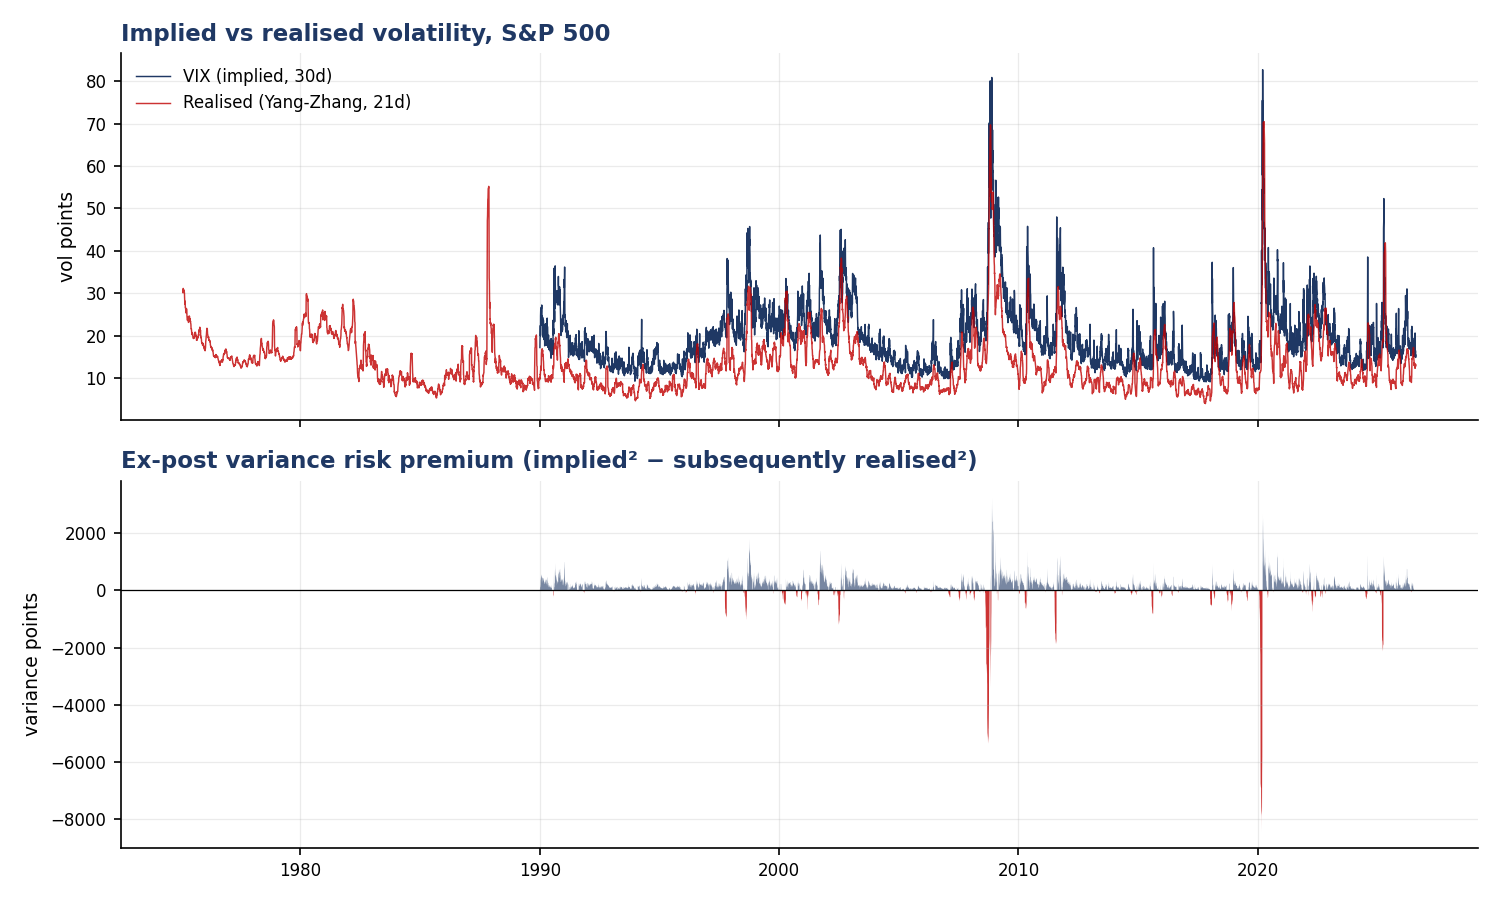
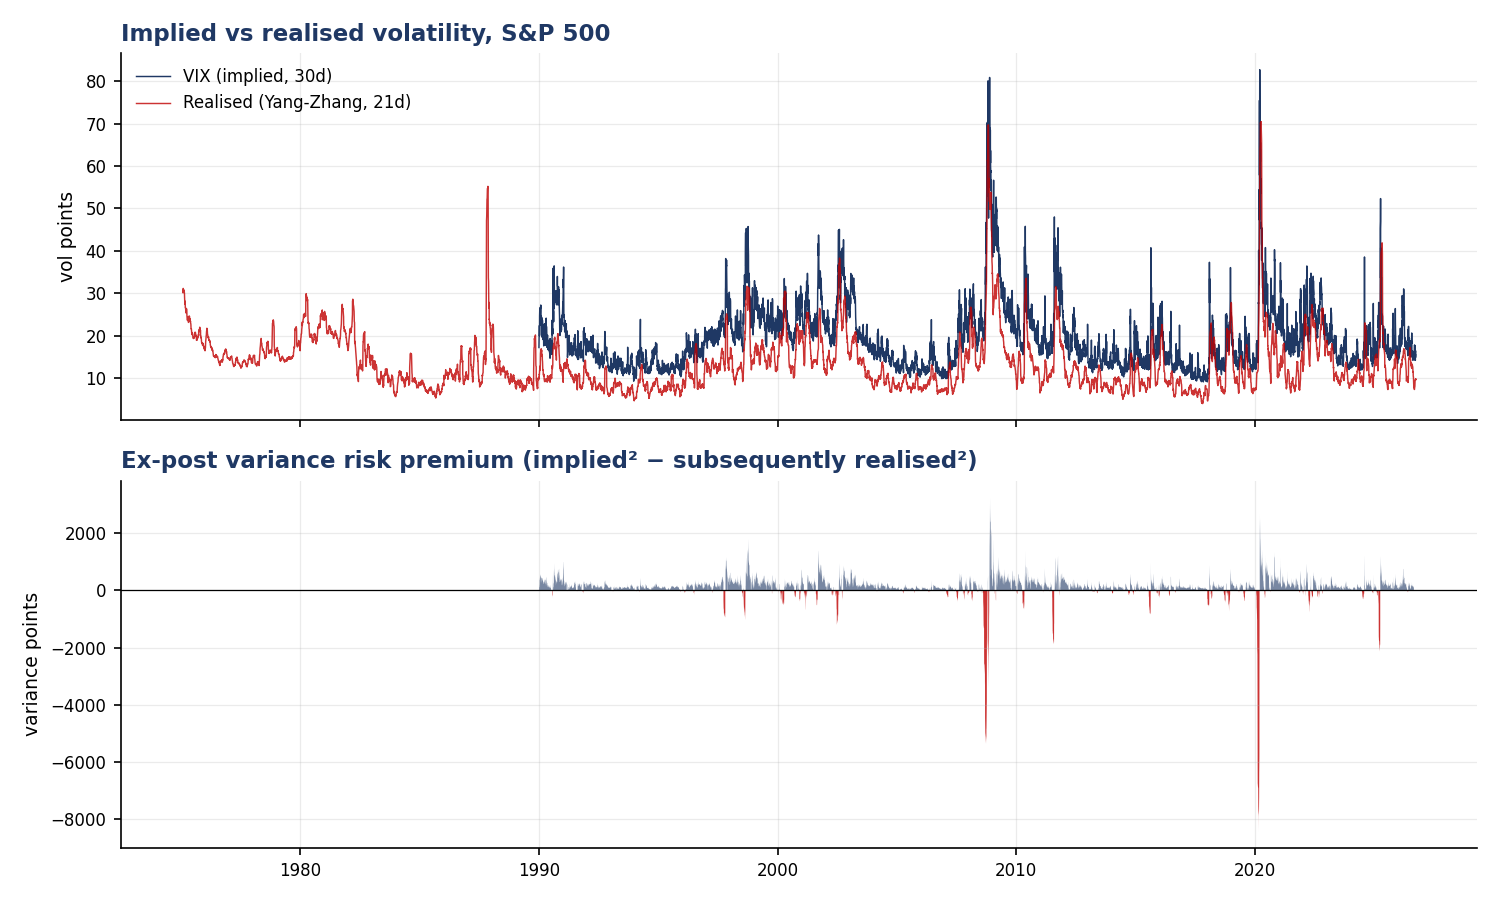
README: lead with the index-versus-futures result; regenerate figures
Results through September 2026 with inference for every strategy. States
plainly that the previous version reported a non-tradable index result as a
relative-value finding.

diff --git a/README.md b/README.md
@@ -1,80 +1,92 @@
 # Relative-value volatility research
 
-A point-in-time data pipeline, two volatility signals, and a walk-forward backtest, built to
-answer one question:
+A point-in-time data pipeline, volatility signals, a walk-forward backtest and
+the statistics to judge them, built to answer two questions honestly:
 
-> **Is the equity variance risk premium a strategy, or just a way of getting paid to hold a
-> short tail?**
+> **1. Is the equity variance risk premium a strategy, or a way of getting paid to hold a short tail?**
+>
+> **2. Does a signal on the shape of the VIX curve still work once you trade it in instruments that exist?**
 
-The short answer, over 36 years of S&P 500 data, is mostly the second. The more interesting
-result is what happens when the same premium is traded in *relative* rather than outright
-form — see [Findings](#findings).
+The short answers, on S&P 500 data from 1990 and VIX futures from 2013, both
+through September 2026:
 
-![Cumulative net PnL](reports/figures/02_cumulative_pnl.png)
+1. The premium is real and statistically strong (Newey–West *t* = 4.4 over 441
+   months), but it comes with a skew of −10 and a worst month that erases five
+   years of carry.
+2. **No.** A term-structure signal with a Sharpe of 0.95 (*t* = 4.3) and
+   *positive* skew on the VIX indices turns into **−0.77 (*t* = −2.6) with
+   skew −7.0** when the same trades are put on in VIX futures. Before costs it
+   is 0.21, and not distinguishable from zero.
+
+![Same signal, two instruments](reports/figures/03_index_vs_futures.png)
 
 ---
 
 ## Findings
 
-All PnL is in **volatility points** per unit of vega notional, net of costs. Data runs to
-10 August 2026.
+Monthly, non-overlapping net PnL in **volatility points** per unit of vega
+notional. *t* is Newey–West (Bartlett kernel, automatic bandwidth); the
+interval is a 95% circular block bootstrap (6-month blocks) for the annualised
+Sharpe. Full table: [`reports/inference.csv`](reports/inference.csv).
 
-| | Always-on short variance | VRP-conditioned (in-sample) | VRP walk-forward (OOS) | Calendar relative value |
-|---|---|---|---|---|
-| Period | 1990–2026 | 1990–2026 | 1994–2026 | 2009–2026 |
-| Annualised return | 25.50 | 8.33 | 13.72 | 3.65 |
-| Annualised vol | 7.72 | 4.16 | 5.39 | 2.08 |
-| **Sharpe (daily)** | **3.30** | **2.00** | **2.55** | **1.75** |
-| **Sharpe (monthly)** | **0.84** | **0.76** | **0.80** | **1.30** |
-| Max drawdown | −161.50 | −67.21 | −84.32 | −6.25 |
-| Skew | −11.77 | −15.83 | −10.15 | **+5.74** |
-| Excess kurtosis | 212.6 | 435.1 | 191.1 | 138.7 |
-| Worst month | −129.57 | −37.30 | −53.04 | −1.02 |
-| Time in market | 100% | 46% | 68% | 35% |
-| Annualised turnover | 0.00 | 35.9 | 49.2 | 16.0 |
+| Strategy | Period | Sharpe | NW *t* | 95% CI | Skew | Worst month |
+|---|---|---|---|---|---|---|
+| Always-on short variance | 1990–2026 | 0.85 | 4.41 | [0.28, 2.50] | −10.1 | −129.6 |
+| VRP-conditioned (fixed params) | 1990–2026 | 0.76 | 3.80 | [0.23, 1.81] | −6.5 | −37.3 |
+| VRP walk-forward (out of sample) | 1994–2026 | 0.80 | 3.89 | [0.24, 2.02] | −6.6 | −53.0 |
+| Curve signal, **marked on VIX indices** † | 2013–2026 | 0.95 | 4.26 | [0.58, 1.43] | +2.5 | −6.2 |
+| Same trades, **VIX futures**, before costs | 2013–2026 | 0.21 | 0.72 | [−0.31, 1.26] | −6.4 | −5.2 |
+| Same trades, **VIX futures**, after costs | 2013–2026 | **−0.77** | −2.64 | [−1.39, −0.50] | −7.0 | −5.6 |
+| Futures, signal from the futures curve | 2013–2026 | −0.58 | −2.00 | [−1.02, −0.06] | −3.1 | −3.2 |
+| Futures, M3 − M1 back leg (tenor-matched) | 2013–2026 | −0.30 | −1.06 | [−0.62, 0.33] | −9.6 | −13.9 |
 
-**1. The daily Sharpe is an artefact.** Always-on short variance shows 3.30 daily and 0.84
-monthly. The gap is not a rounding difference — it is the overlapping 21-day holding periods
-smoothing the daily series. The monthly figure is computed on non-overlapping buckets and is
-the only one worth quoting. Any short-variance backtest advertising a daily Sharpe above 3
-is reporting this artefact.
+† Not tradable. Kept as the counterfactual.
 
-**2. The premium is real; the payoff distribution is the problem.** The strategy wins on 83%
-of days and still carries skew of −11.8, kurtosis of 213, and a worst month of −129.6 vol
-points against an annual return of 25.5. Roughly five years of carry disappears in a single
-month. That is a short tail with a coupon, not an edge.
+**1. The daily Sharpe of short variance is an artefact.** Always-on short
+variance shows 3.32 on daily data and 0.85 on monthly. The overlapping 21-day
+holding periods autocorrelate the daily series; the monthly buckets do not
+overlap, so that is the figure to quote.
 
-**3. Conditioning on the premium helps risk, not return.** Trading only when the VRP proxy is
-rich relative to its own trailing distribution cuts max drawdown by ~48% (−161.5 → −84.3
-out-of-sample) and worst month by 59%, at the cost of roughly half the return. Monthly Sharpe
-barely moves: 0.84 → 0.80. **The conditioning buys survivability, not alpha** — a fair result,
-and not the one I expected when I started.
+**2. The premium is real, the payoff is a short tail.** The strategy wins on
+83% of days and returns about 25 vol points a year, and its worst month
+(March 2020) loses 130 — five years of carry.
 
-**4. Honest parameter selection costs almost nothing here.** The walk-forward version chooses
-its lookback and entry threshold on an expanding window and trades the following year blind.
-It gives up little against the in-sample version, which mostly says the strategy is not very
-parameter-sensitive — the premium is a broad phenomenon, not a tuned one.
+**3. Conditioning buys survivability, not return.** Trading only when the
+premium is rich relative to its own history roughly halves the drawdown and
+cuts the worst month by 60–70%. Monthly Sharpe does not improve (0.85 → 0.80).
+Parameters chosen on an expanding window and applied blind give up almost
+nothing, but the **deflated Sharpe** (Bailey & López de Prado, 2014) across the
+12 configurations tried is 0.90 — below the conventional 0.95 bar. Selecting
+the best of 12 would produce an annualised Sharpe of 0.39 by luck alone.
 
-**5. The relative-value version has the opposite tail.** The calendar trade — front variance
-against back variance, equal and opposite vega, expressing curve *shape* rather than level —
-earns a monthly Sharpe of 1.30 with **positive** skew of +5.7 and a worst month of −1.0.
-It is in the market only 35% of the time. Trading the same underlying premium in spread form
-inverts the sign of the tail. This is the whole argument for relative value in one number, and
-it is the result I would want to attack first if I had more data.
+**4. Index versus tradable is the whole result.** The VIX index mean-reverts
+predictably after spikes, and the calendar signal captures that: on the
+indices it earns a Sharpe of 0.95 with positive skew. But no one can buy the
+index. VIX futures already price the expected reversion — a future on an
+elevated VIX trades well below spot — so the predictable part of the index move
+is not available as a return. In futures the same trades earn nothing before
+costs and lose after them, and the tail flips from +2.5 to −7.0. Building the
+signal from the futures curve itself, or matching the back leg's tenor to
+VIX3M, does not rescue it.
 
-![Implied vs realised](reports/figures/01_implied_vs_realised.png)
+**5. What the first version got wrong.** The previous version of this
+repository reported the index-level result as a tradable relative-value
+finding. It was not. The futures data, the roll logic and the inference layer
+were added to test that claim, and the claim did not survive.
+
+![Cumulative PnL, variance carry](reports/figures/02_cumulative_pnl.png)
 
 ---
 
-## Design: three things that decide whether the numbers mean anything
+## Design: what decides whether the numbers mean anything
 
 ### Point-in-time, enforced rather than intended
 
-Every fact table carries `ingested_at`. Loaders upsert on natural primary keys, so re-running
-one applies corrections without duplicating rows, and derived tables are always rebuildable
-from raw. Constraints live in the schema — `option_quote` rejects an expiry before its
-snapshot date, `underlying_daily` rejects a bar where the high is below the close — so bad
-data fails at the boundary rather than three transformations downstream.
+Every fact table carries `ingested_at`. Loaders upsert on natural keys, so a
+re-run applies corrections without duplicating rows, and derived tables are
+rebuildable from raw. Constraints live in the schema — an option expiry before
+its snapshot, a futures settlement after its expiry or a bar whose high is
+below its close all fail at the boundary.
 
 ### Two things are called "VRP" and only one is tradable
 
@@ -83,18 +95,37 @@ ex-post VRP    implied² at t  −  variance realised over (t, t+H]     ← the 
 VRP proxy      implied  at t  −  volatility realised over (t−H, t]   ← the signal
 ```
 
-The first is not knowable at `t`. `signals/` never imports the forward estimator; only
-`backtest/` does, and only to settle a position that was already opened.
+`signals/` never imports the forward estimator. Only `backtest/` does, to
+settle a position that was already opened.
 
 ### The no-lookahead test
 
-`tests/test_no_lookahead.py` multiplies all data after an arbitrary cut point by a random
-factor of 3–6× and asserts that every signal value *before* that point is bit-identical.
+`tests/test_no_lookahead.py` multiplies all data after a cut point by a random
+factor of 3–6× and asserts that every earlier signal value is unchanged. It
+failed on first run: the position sizer normalised by the full-sample median of
+implied volatility, so a 1994 position knew the average volatility of the next
+thirty years.
 
-This is not decorative. It failed on first run and caught a genuine leak: the position sizer
-normalised by `implied.median()` over the full sample, so the 1994 position knew the average
-volatility of the following thirty years. It is now an expanding median. A code review would
-probably not have caught that line; the test caught it immediately.
+### Execution timing and rolls
+
+A signal observed at the close of day *t* is executed at the settlement of day
+*t+1* (trade-at-settlement) and earns from there. The futures book holds the
+first contract with more than five business days to expiry and the next one
+out; PnL on a roll day is computed on the contracts held the day before, so a
+roll never shows up as a price jump. Costs: 0.05 vol points per leg per trade,
+four contract-units per roll. `tests/test_futures.py` checks the expiry rule
+against every published contract and that a uniform price drift produces zero
+spread PnL through rolls.
+
+### The option-chain recorder
+
+A GitHub Action records the full SPY chain (≈11,000 quotes) after every US
+close into Postgres. It is point-in-time by construction, with one exception
+found in September: on US holidays the data source still serves the previous
+session, which was being stored under the holiday's date. The recorder now
+stamps each chain with the date of its last regular-session print and skips the
+day when that is not today; `volrv audit-snapshots` flags any repeated day
+already in the table.
 
 ![PnL distribution](reports/figures/04_pnl_distribution.png)
 
@@ -102,25 +133,16 @@ probably not have caught that line; the test caught it immediately.
 
 ## What this does **not** model
 
-Stated plainly, because the numbers above are not tradable Sharpes:
-
-- **PnL is modelled at index level.** A one-month variance position is priced off the VIX and
-  settled against realised variance; the calendar trade is marked off the constant-maturity
-  curve. Neither VIX nor VIX3M is directly tradable. A real implementation needs the option
-  chain or the futures strip.
-- **No strike-level bid-ask.** Costs are a flat 0.50 vol points round-trip on the variance leg
-  and 0.20 on the calendar spread. Deliberately conservative, but a single number cannot
-  capture the fact that liquidity vanishes exactly when the strategy needs to de-risk.
-- **No delta hedging path.** A variance swap is replicated by a strip of options plus a
-  continuously rebalanced delta. The discrete-hedging error is real and is not here.
-- **No financing, margin, or capacity.** The February 2018 loss is modelled as a mark. In
+- **Variance PnL is priced off VIX², not traded.** VIX² is close to the fair
+  30-day variance swap rate but not equal to it, and the backtest has no
+  strike-level bid-ask or discrete-hedging error. The futures results do not
+  share this limitation.
+- **Futures begin in 2013**, the start of CBOE's public per-contract files. The
+  tradable test never sees 2008.
+- **No margin, financing or capacity.** A February 2018 loss is a mark here; in
   practice it was a margin call.
-- **VIX3M starts in 2009**, so the calendar result never sees 2008. Its positive skew is
-  measured over a period containing 2018 and 2020 but not the crisis that would test it hardest.
-
-The natural next step is [`snapshot.py`](src/volrv/ingest/snapshot.py) — recording real option
-chains daily so the surface can be fitted (SVI, with Durrleman and calendar constraints) and
-the PnL computed on quotes rather than an index proxy.
+- **Costs are a single number per leg.** Liquidity disappears exactly when
+  these strategies need to trade.
 
 ---
 
@@ -130,66 +152,48 @@ the PnL computed on quotes rather than an index proxy.
 git clone https://github.com/0janne/vol-rv-research && cd vol-rv-research
 pip install -e ".[dev]"
 
-docker compose up -d                    # Postgres 16 on :5433
-cp .env.example .env
-
+docker compose up -d                    # Postgres 16 on :5433 (optional; SQLite by default)
 volrv init-db                           # apply sql/ migrations (idempotent)
-volrv ingest --source all               # ~14k days of SPX OHLC + the VIX complex
-volrv build-features                    # realized vol estimators, VRP, term structure
-volrv report                            # backtests + figures into reports/
+volrv ingest --source all               # SPX OHLC, VIX complex, ~170 VIX futures contracts
+volrv build-features                    # realised vol estimators, VRP, term structure
+volrv report                            # backtests, inference table, figures
 
 pytest -q && ruff check src tests
 ```
-
-Postgres is the intended store; the test suite runs against SQLite so CI needs no server.
-Set `DATABASE_URL` to switch.
-
-To start accumulating real chains, schedule the recorder after the US close:
-
-```bash
-volrv snapshot --underlying SPY         # appends one point-in-time chain per day
-```
-
----
 
 ## Data
 
 | Source | Series | Coverage |
 |---|---|---|
 | CBOE (free daily CSVs) | VIX, VIX9D, VIX3M, VIX6M, VVIX, SKEW, SPX | VIX from 1990 |
+| CBOE Futures Exchange | VIX futures settlements, every monthly contract | 2013 onward |
 | Yahoo Finance | SPX daily OHLC (range-based estimators need it) | from 1970 |
-| `volrv snapshot` | SPY option chains | forward from first run |
+| `volrv snapshot` | SPY option chains, recorded daily | from August 2026 |
 
-No vendor data is redistributed in this repository — only the loaders.
+No vendor data is redistributed here — only the loaders.
 
 ## Layout
 
 ```
-sql/001_schema.sql          tables, keys, constraints
+sql/                        001 schema · 002 VIX futures
 src/volrv/
-  ingest/                   cboe.py · yahoo.py · snapshot.py
-  vol/realized.py           close-to-close, Parkinson, Garman-Klass,
-                            Rogers-Satchell, Yang-Zhang
-  vol/term.py               constant-maturity curve (interpolated in total variance)
-  signals/                  vrp.py · calendar.py — point-in-time only
-  backtest/engine.py        tranche ladder, vega-neutral spread, walk-forward
-  backtest/metrics.py       daily and non-overlapping monthly statistics
-tests/                      37 tests, incl. the no-lookahead guard
+  ingest/                   cboe · cboe_futures · yahoo · snapshot (holiday-safe)
+  vol/                      five realised-vol estimators · constant-maturity curve
+  signals/                  vrp · calendar — point-in-time only
+  backtest/engine.py        variance tranche ladder · spread engine · walk-forward
+  backtest/futures.py       contract selection, rolls, tradable spread PnL
+  backtest/inference.py     Newey–West, block bootstrap, deflated Sharpe
+tests/                      54 tests, incl. the no-lookahead guard
 ```
 
-## Notes on method
+## References
 
-Constant-maturity vols are interpolated in **total variance** against calendar days, not in
-volatility — interpolating vol directly is not arbitrage-consistent across tenors.
-
-The variance carry book is a **ladder of overlapping tranches**: one opened per day, each
-holding 1/H of capital, so exactly one settles per day and the daily PnL series contains no
-double counting. The series is still autocorrelated, which is precisely why the monthly Sharpe
-is reported alongside it.
-
-Yang-Zhang is the default realised estimator for signals because it is the only one of the five
-that handles both drift and the overnight gap — and overnight gaps are when equity index
-volatility actually happens.
+- Bailey, D. H. & López de Prado, M. (2014). The Deflated Sharpe Ratio. *Journal of Portfolio Management*.
+- Bollerslev, T., Tauchen, G. & Zhou, H. (2009). Expected Stock Returns and Variance Risk Premia. *Review of Financial Studies*.
+- Carr, P. & Wu, L. (2009). Variance Risk Premiums. *Review of Financial Studies*.
+- Johnson, T. L. (2017). Risk Premia and the VIX Term Structure. *Journal of Financial and Quantitative Analysis*.
+- Newey, W. K. & West, K. D. (1994). Automatic Lag Selection in Covariance Matrix Estimation. *Review of Economic Studies*.
+- Simon, D. P. & Campasano, J. (2014). The VIX Futures Basis: Evidence and Trading Strategies. *Journal of Derivatives*.
 
 ---
 
